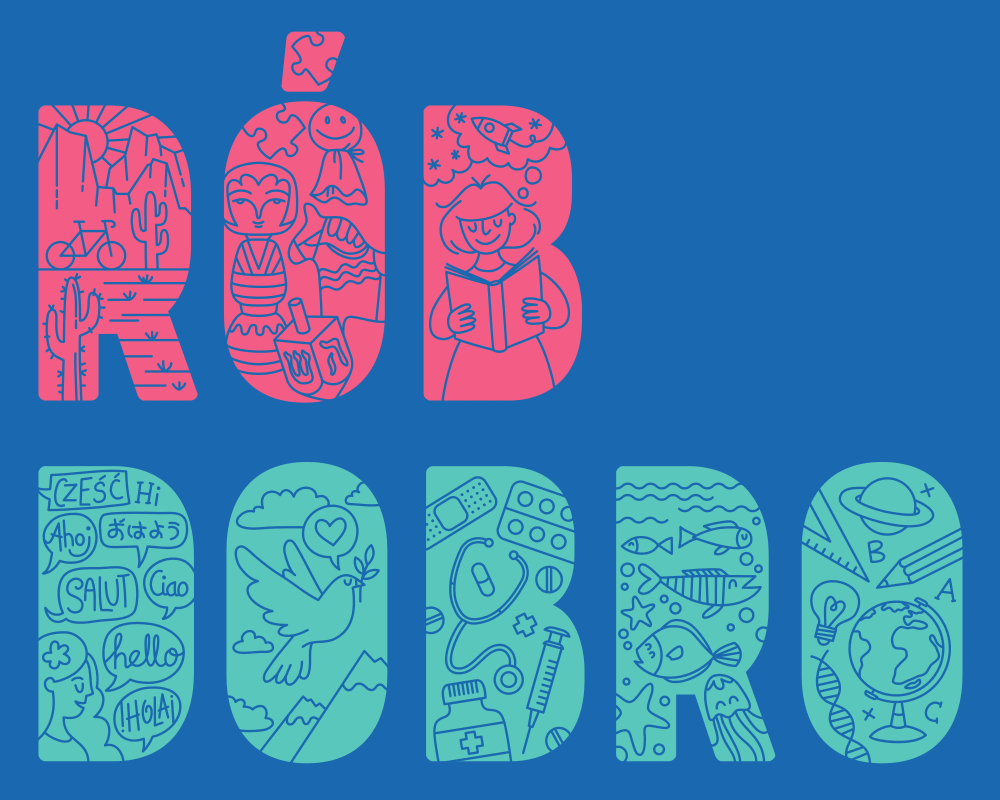
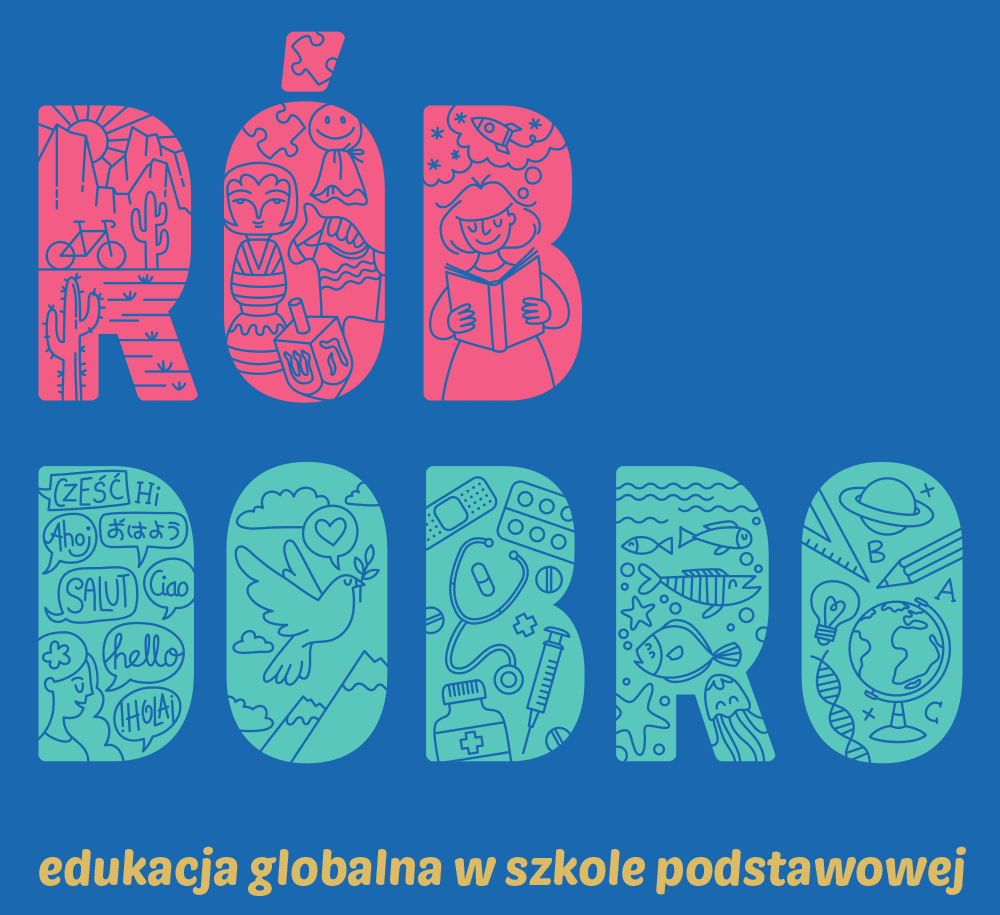
og meta; usunięty kalam font

diff --git a/index.html b/index.html
@@ -3,17 +3,20 @@
 <head>
   <meta charset="UTF-8">
   <meta name="viewport" content="width=device-width, initial-scale=1.0">
-  <title>RÓB DOBRO</title>
+  <title>RÓB DOBRO - konferencja on-line</title>
   <meta name="description" content="Edukacja globalna w szkole podstawowej. Konferencja on-line 15-18 czerwca 2020. Zaprasza Ośrodek Działań Ekologicznych „Źródła”">
-  <link rel="stylesheet" href="/style.css">
-  <link href="https://fonts.googleapis.com/css2?family=Lato:ital,wght@0,400;0,700;0,900;1,400;1,700&display=swap" rel="stylesheet">  
-  <link href="https://fonts.googleapis.com/css2?family=Kalam:wght@700&text=edukacja%20globalna%20w%20szkole%20podstawowej&display=swap" rel="stylesheet">
+  <link rel="stylesheet" href="style.css">
+  <link href="https://fonts.googleapis.com/css2?family=Lato:ital,wght@0,400;0,700;0,900;1,400;1,700&display=swap" rel="stylesheet">
+  <meta property="og:url" content="http://konferencja.globalna.edu.pl/" />
+	<meta property="og:image" content="http://konferencja.globalna.edu.pl/img/FB2.png" />
+	<meta property="og:title" content="Konferencja on-line RÓB DOBRO 15–18 czerwca 2020" />
+	<meta property="og:description" content="Aby wziąć udział w Konferencji należy wypełnić formularz zgłoszeniowy. Na adres email podany podczas rejestracji będziesz codziennie przez cztery konferencyjne dni dostawać wiadomości z linkami do wystąpień zaplanowanych na dany dzień. Każdego dnia udostępniać będziemy pięć kolejnych prezentacji." />
+	<meta property="og:type" content="website" />  
 </head>
 <body class="font-sans text-lg text-gray-900">
   <header class="bg-niebieski py-10">
     <div class="container mx-auto">
-      <h1 class="max-w-2xl mx-auto mb-8"><img src="img/rob-dobro.png" alt="RÓB DOBRO"></h1>
-      <p class="text-zolty font-kalam text-2xl sm:text-4xl leading-tight text-center">edukacja globalna w&nbsp;szkole podstawowej</p>
+      <h1 class="max-w-2xl mx-auto mb-8"><img src="img/rob-dobro.png" alt="RÓB DOBRO – edukacja globalna w szkole podstawowej"></h1>
       <div class="max-w-2xl mx-auto text-blue-200 text-center text-xl sm:text-2xl my-10">
         <p class="font-bold">konferencja on-line</p>
         <p class="font-bold">15–18 czerwca 2020</p>
@@ -67,7 +70,7 @@
           <div class="prelegent">
             <img class="foto" src="/img/Khan.jpg" alt="Klaudia Khan">
             <p class="nazwisko">Klaudia Khan</p>
-            <p class="organizacja">Uniwersytet w&nbsp;Götheburgu, Szwecja</p>
+            <p class="organizacja">Uniwersytet w&nbsp;Göteborgu, Szwecja</p>
             <h4 class="tytul">Polska Edukacja Globalna</h4>
           </div>
         </div>
@@ -127,7 +130,7 @@
           <div class="prelegent">
             <img class="foto" src="/img/Szymanska.jpg" alt="Magdalena Szymańska">
             <p class="nazwisko">Magdalena Szymańska</p>
-            <p class="organizacja">Fundacja Go’n’act</p>
+            <p class="organizacja">Fundacja Go’n’Act</p>
             <h4 class="tytul">Samoewaluacja nauczycielki(-ela). Case study: karty autorefleksji</h4>
           </div>
           <div class="prelegent">
@@ -139,7 +142,7 @@
           <div class="prelegent">
             <img class="foto" src="/img/Szymanska.jpg" alt="Magdalena Szymańska">
             <p class="nazwisko">Magdalena Szymańska</p>
-            <p class="organizacja">Fundacja Go’n’act</p>
+            <p class="organizacja">Fundacja Go’n’Act</p>
             <h4 class="tytul">Kalendarz społeczników zasłużonych dla praw dziecka jako inspiracja w&nbsp;działaniach z&nbsp;zakresu edukacji globalnej</h4>
           </div>
         </div>

diff --git a/tailwind.css b/tailwind.css
@@ -88,7 +88,3 @@ footer a {
   }
 }
 @tailwind utilities;
-.font-kalam {
-  font-family: 'Kalam', cursive;
-  @apply font-bold;
-}
